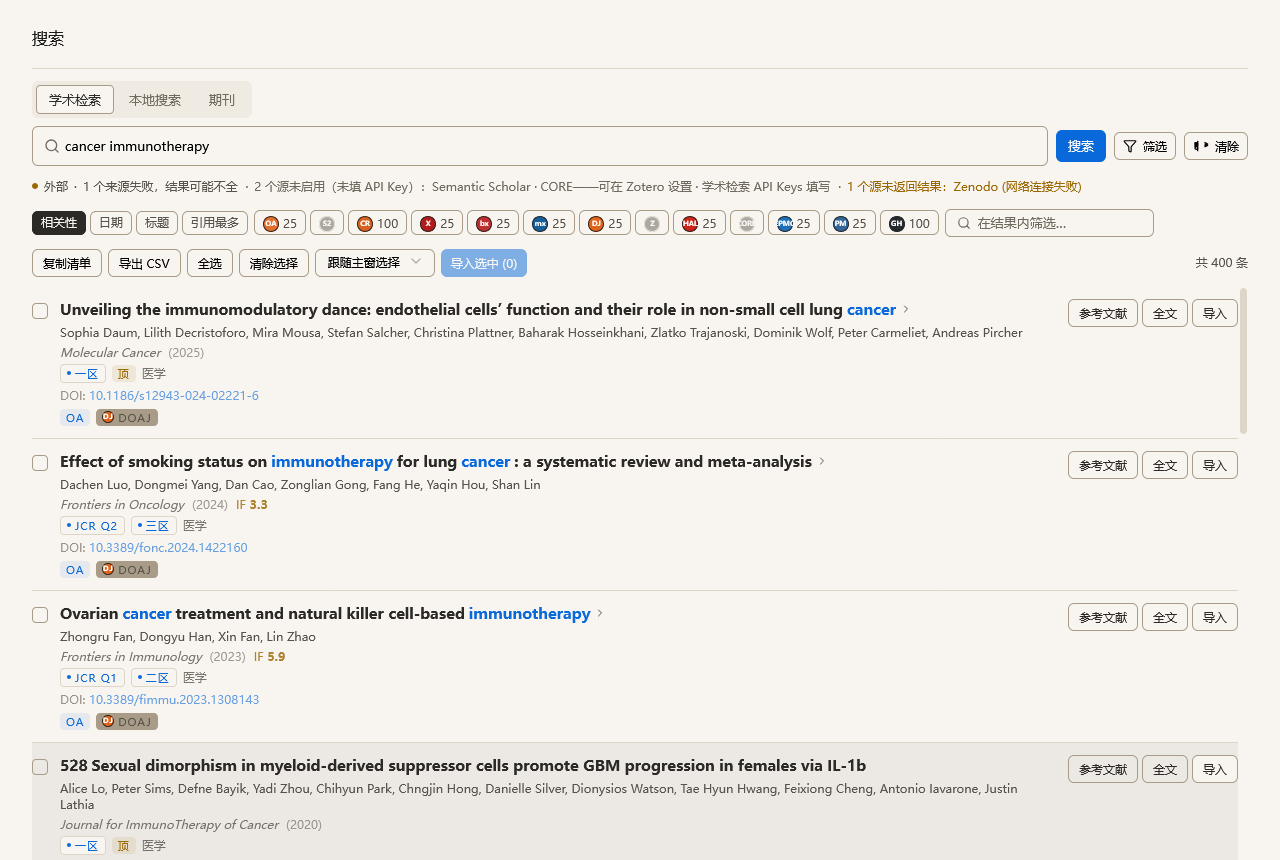
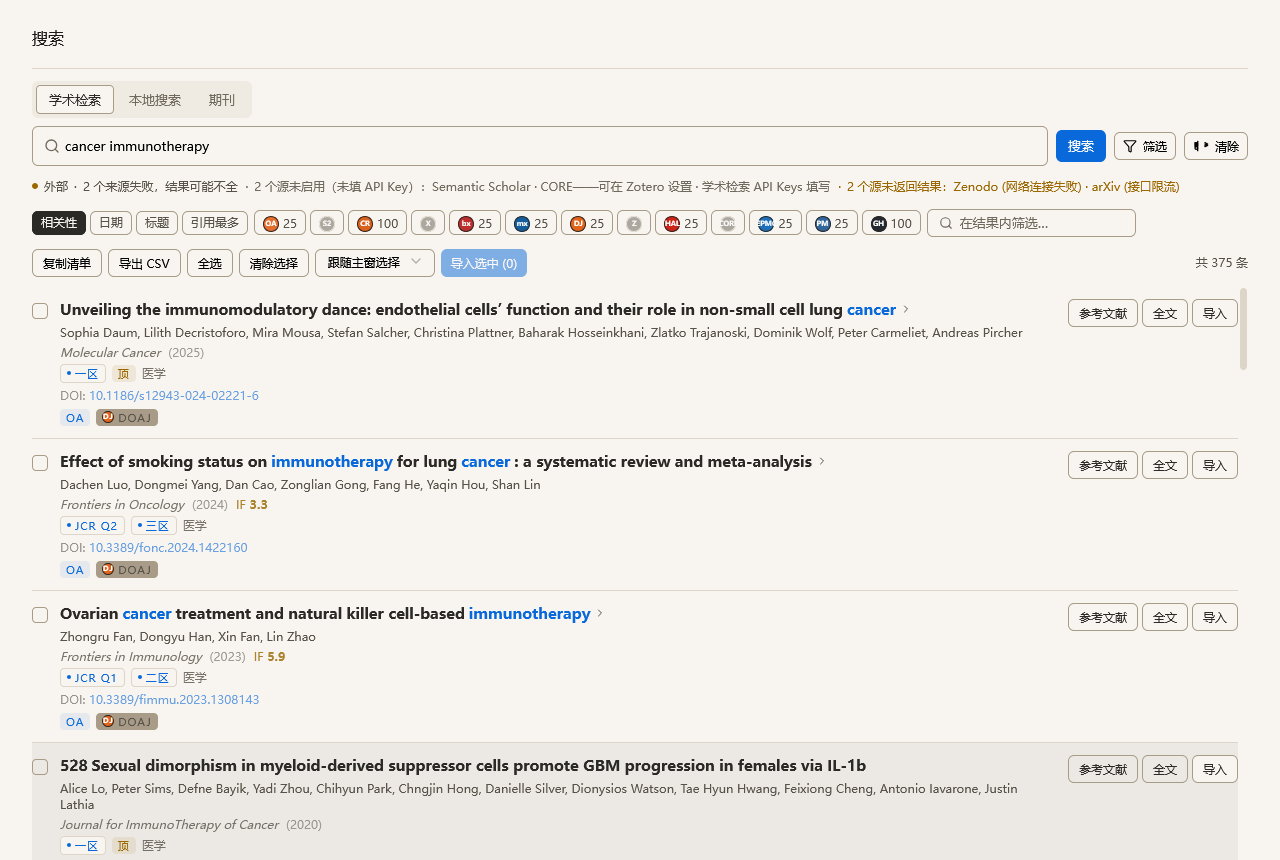
fix(hub): Hub 默认窗口固定为内容区 1280×860,截图用例移除 resize 补偿
- HubWindowManager：首开尺寸不再自适应主屏 85%——2560 屏上开出
  2176×1224 的巨窗，指标卡等轻内容页面大片留白。openDialog 的
  width/height 是外框尺寸（Windows 默认主题下内容区小 16×78），参数
  取 1296×938 使内容区恰为 1280×860（与 README 截图同口径）。用户
  手动调整的尺寸仍由 XUL persist 记住，默认值只影响首次开窗。
- 截图套件（zz/zzz）：移除 openHubReady 的 resizeTo 补偿——此环境
  resizeTo 时灵时不灵，外框/内框差异在多轮 resize 间累积误差（实测
  同一套件内三张图宽度各不相同：1280/1264/1248）。窗口尺寸交给产品
  默认，最终尺寸由 screenshotHub 的 cropW/cropH 裁剪兜底。修后同套件
  三张图尺寸精确一致（1280×860 / 1280×640 / 1280×860）。
- 随窗口稳定重拍：发现列表（zh）与文献卡（zh）两张更新；指标卡两张
  与已提交版本像素一致，git 未检出变化。

Changed region(s): [[0.3125, 0.2419, 0.8438, 0.2721], [0.9688, 0.4233, 1.0, 0.514], [0.8438, 0.2116, 0.9375, 0.2419]]

diff --git a/src/ui/hub/HubWindowManager.ts b/src/ui/hub/HubWindowManager.ts
@@ -94,20 +94,14 @@ class HubWindowManager {
     // 创建 Bridge + 同步 initialize（openDialog 前构造，避免竞态）
     this.bridge = new HubWindowBridge();
 
-    // 首开尺寸自适应主屏：取可用区域 85%，不低于原默认 1280×860。
-    // 只在首次开窗生效（此后 XUL persist 记住用户手动调整的尺寸）。
-    let width = 1280;
-    let height = 860;
-    try {
-      const availWidth = mainWindow.screen?.availWidth ?? 0;
-      const availHeight = mainWindow.screen?.availHeight ?? 0;
-      if (availWidth > 0 && availHeight > 0) {
-        width = Math.max(width, Math.round(availWidth * 0.85));
-        height = Math.max(height, Math.round(availHeight * 0.85));
-      }
-    } catch {
-      /* 屏幕信息不可得时保持默认 */
-    }
+    // 首开尺寸 1280×860（与 README 截图同口径）。2026-10-14 调整：此前
+    // 首开自适应主屏 85%（2560 屏上开出 2176×1224 的巨窗，内容密度骤降，
+    // 指标卡等轻内容页面大片留白）；固定 1280×860 后用户手动调整的尺寸
+    // 仍由 XUL persist 记住，默认值只影响首次开窗。
+    // 注意 openDialog 的 width/height 是外框尺寸——Windows 默认主题下
+    // 内容区比外框小 16×78，参数取 1296×938 使内容区恰为 1280×860。
+    const width = 1296;
+    const height = 938;
 
     const hubWin = mainWindow.openDialog(
       "chrome://zsearch/content/hub/hubWindow.xhtml",

diff --git a/tests/zotero/zzz-readme-shots-zh/zzz-readme-shots-zh.spec.js b/tests/zotero/zzz-readme-shots-zh/zzz-readme-shots-zh.spec.js
@@ -69,7 +69,7 @@ describe("z-search readme screenshots (literature/journal tabs, zh-CN)", functio
     return pred();
   }
 
-  async function openHubReady(width = 1280, height = 860) {
+  async function openHubReady() {
     await hubWindowManager.openHub("search");
     const wm = Cc["@mozilla.org/appshell/window-mediator;1"].getService(
       Ci.nsIWindowMediator,
@@ -87,9 +87,6 @@ describe("z-search readme screenshots (literature/journal tabs, zh-CN)", functio
     // 逐像素同尺寸）。openDialog 的 width/height 是外框尺寸，按实测差值
     // 校正一次。2026-10-14 参数化：指标卡内容少，用 1280×640 紧凑窗口
     // 让卡片充满画面（860 高会留下大片空白）；列表类用例仍用 860。
-    const dw = hubWin.innerWidth - width;
-    const dh = hubWin.innerHeight - height;
-    if (dw !== 0 || dh !== 0) hubWin.resizeTo(width + dw, height + dh);
     await Zotero.Promise.delay(800);
   }
 
@@ -308,7 +305,7 @@ describe("z-search readme screenshots (literature/journal tabs, zh-CN)", functio
     try {
       // 复用上一用例打开的 Hub 窗（keep-alive）；重新校正尺寸——指标卡
       // 内容少，用紧凑窗口 1280×640 让卡片充满画面而非浮在空白上
-      await openHubReady(1280, 560);
+      await openHubReady();
 
       // 期刊域：三段 tab 行的文字钮（zh-CN 渲染「期刊」）
       const journalTab = await waitFor(

diff --git a/tests/zotero/zz-readme-shots/zz-readme-shots.spec.js b/tests/zotero/zz-readme-shots/zz-readme-shots.spec.js
@@ -69,7 +69,7 @@ describe("z-search readme screenshots (journal tab, en-US)", function () {
     return pred();
   }
 
-  async function openHubReady(width = 1280, height = 860) {
+  async function openHubReady() {
     await hubWindowManager.openHub("search");
     const wm = Cc["@mozilla.org/appshell/window-mediator;1"].getService(
       Ci.nsIWindowMediator,
@@ -87,9 +87,6 @@ describe("z-search readme screenshots (journal tab, en-US)", function () {
     // 逐像素同尺寸）。openDialog 的 width/height 是外框尺寸，按实测差值
     // 校正一次。2026-10-14 参数化：指标卡内容少，用 1280×640 紧凑窗口
     // 让卡片充满画面（860 高会留下大片空白）；列表类用例仍用 860。
-    const dw = hubWin.innerWidth - width;
-    const dh = hubWin.innerHeight - height;
-    if (dw !== 0 || dh !== 0) hubWin.resizeTo(width + dw, height + dh);
     await Zotero.Promise.delay(800);
   }
 
@@ -251,7 +248,7 @@ describe("z-search readme screenshots (journal tab, en-US)", function () {
   it("journal metric card with local predatory flag", async function () {
     try {
       // 指标卡内容少：紧凑窗口 1280×560，让卡片充满画面而非浮在空白上
-      await openHubReady(1280, 560);
+      await openHubReady();
 
       // 期刊域：三段 tab 行的文字钮（en-US 渲染 Journal）
       const journalTab = await waitFor(
